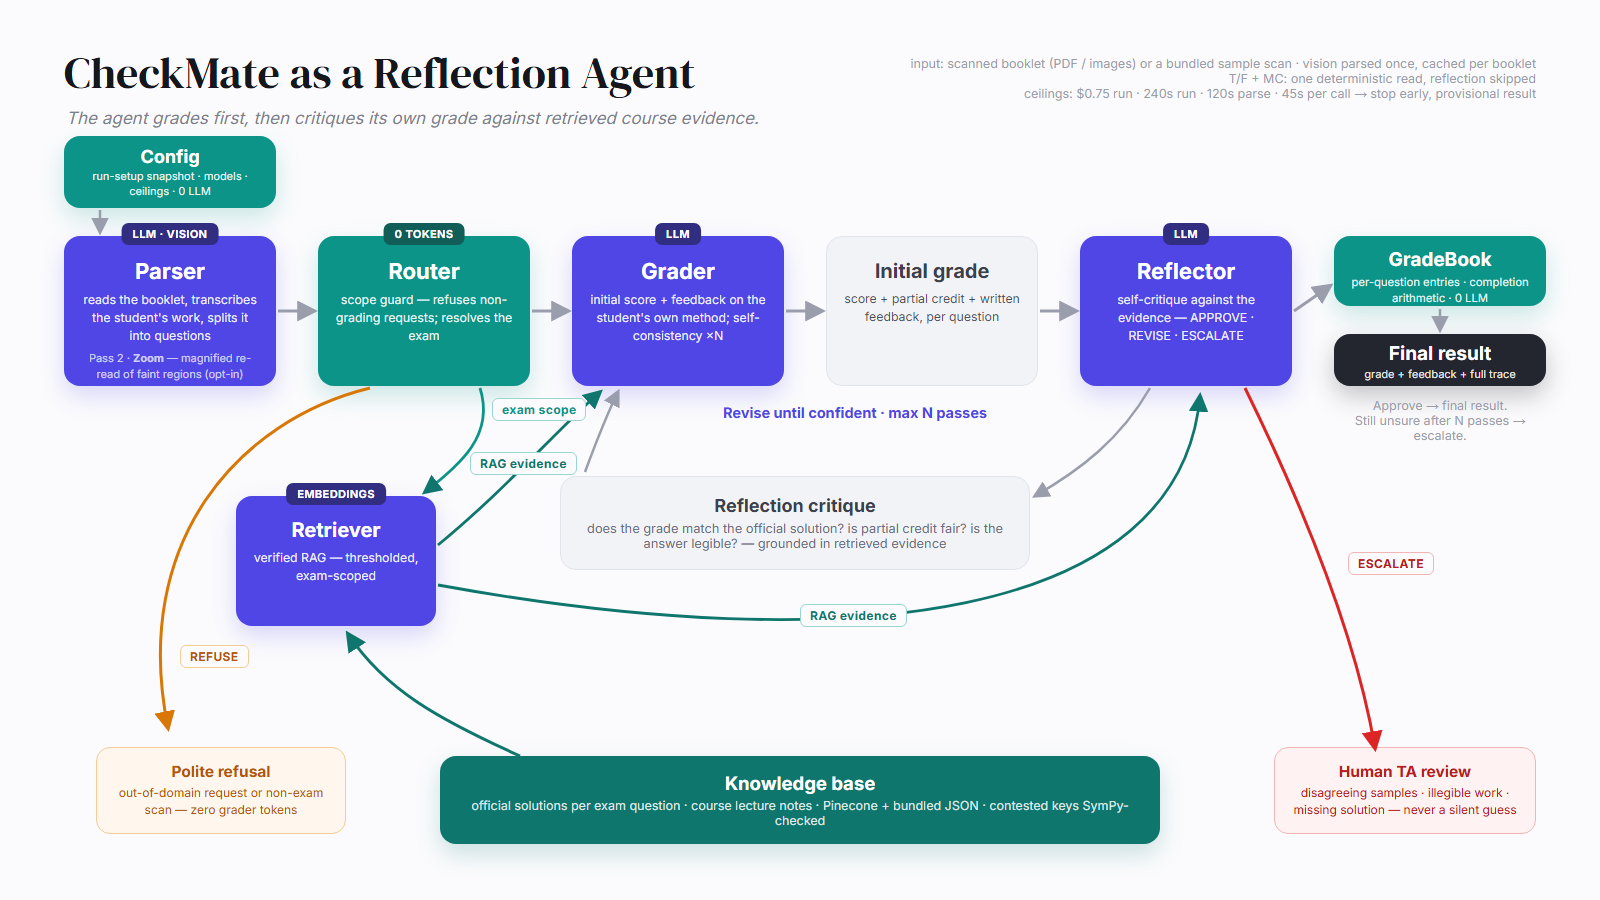
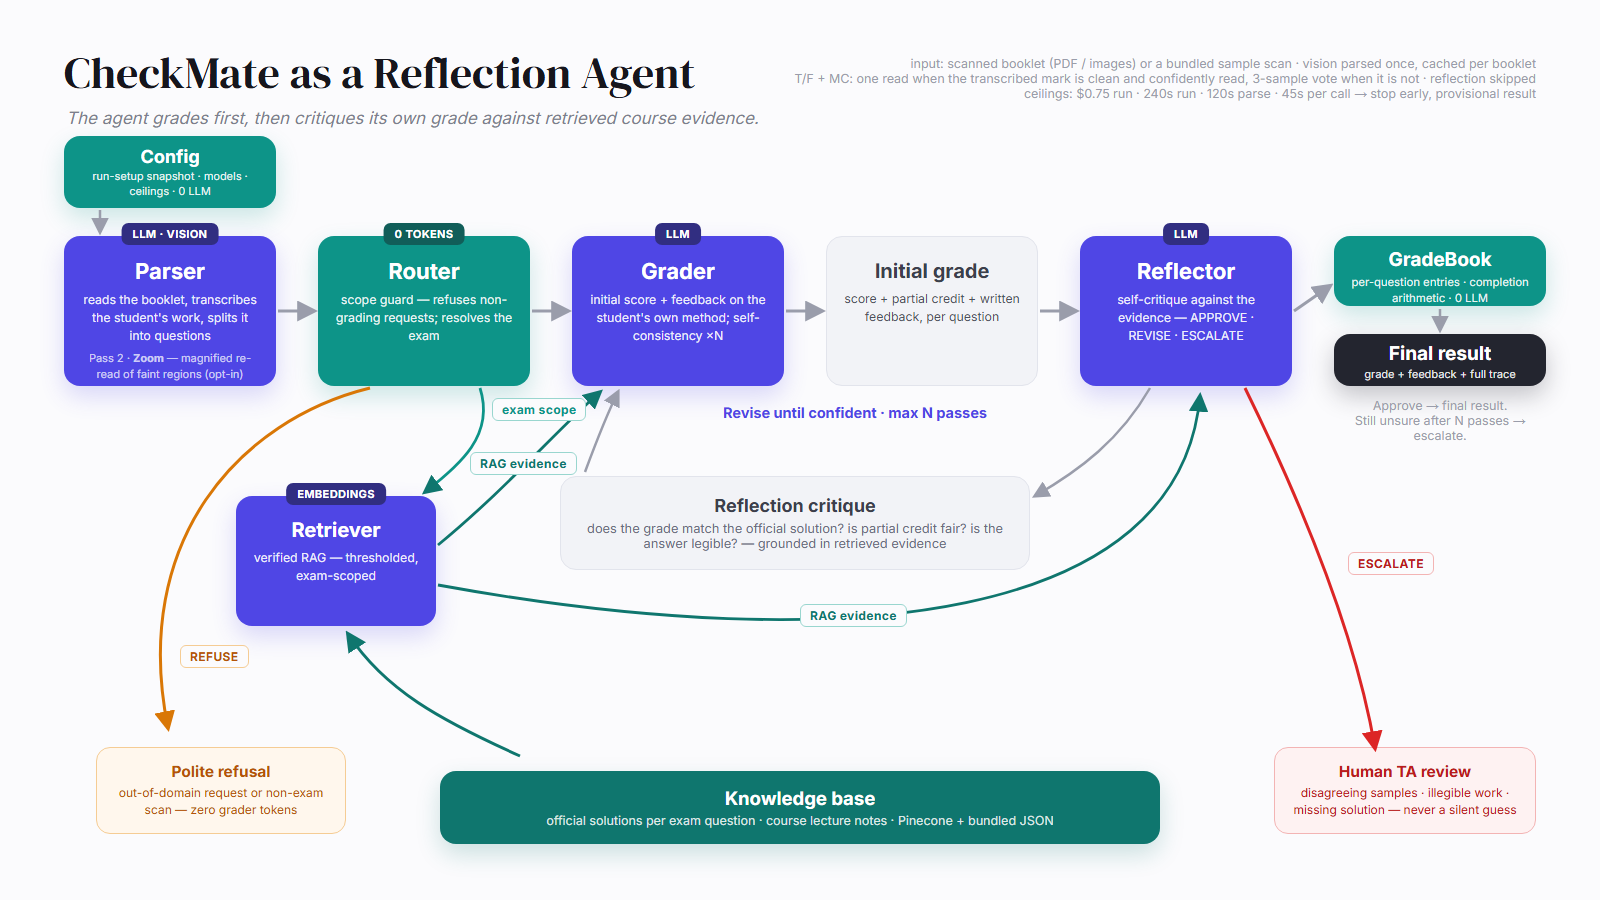
Drop the unbacked SymPy claim; fix the diagram's T/F+MC gating line
The branch audit found agent_info asserting that "contested answer keys are
checked symbolically offline with SymPy". Nothing backs it: sympy is not in
requirements.txt, there is no import and no sweep script anywhere in the repo,
no `verified` field exists in KB entries or index metadata, and 1 of 59 keys
carries any verification trace at all -- free text inside the notes of
2024w moed A/Q2b.

The README overclaimed further than agent_info did, describing a
`verified` vs `authored` tagging scheme that was never built as data.

Removed rather than implemented. A real sweep is not a sweep here: all 59
entries carry a final_answer, but 49 are proof-style prose and the other 10 are
multiple-choice letters, so "verifying" them means ~49 hand-authored symbolic
assertions. That is presumably why only Q2b exists. What IS true is stated
instead: one key was once disputed, and the resolution lives in that entry's
grading note, which the Retriever already passes through to the Grader.

Four sites: api/index.py (agent_info), two README passages plus its tech line,
and scripts/draw_architecture.py (the legacy matplotlib generator, so the claim
cannot resurface from there).

Separately, the diagram claimed "T/F + MC: one deterministic read". That is only
half the gating -- _samples_for takes one call when the transcribed mark is
clean AND parser confidence is >= 0.75, and the full 3-sample vote otherwise,
which is why MC-2 and MC-4 drew three samples in the audited live run. Reworded
[…]

Changed region(s): [[0.25, 0.84, 0.75, 0.9333], [0.5, 0.0622, 0.875, 0.0933]]

diff --git a/scripts/architecture.html b/scripts/architecture.html
@@ -57,7 +57,7 @@
   <div class="title">CheckMate as a Reflection Agent</div>
   <div class="subtitle">The agent grades first, then critiques its own grade against retrieved course evidence.</div>
   <div class="aux">input: scanned booklet (PDF / images) or a bundled sample scan · vision parsed once, cached per booklet<br>
-       T/F + MC: one deterministic read, reflection skipped<br>
+       T/F + MC: one read when the transcribed mark is clean and confidently read, 3-sample vote when it is not · reflection skipped<br>
        ceilings: $0.75 run · 240s run · 120s parse · 45s per call → stop early, provisional result</div>
 
   <!-- main row -->
@@ -80,7 +80,7 @@
 
   <div class="kb">
     <h3>Knowledge base</h3>
-    <p>official solutions per exam question · course lecture notes · Pinecone + bundled JSON · contested keys SymPy-checked</p>
+    <p>official solutions per exam question · course lecture notes · Pinecone + bundled JSON</p>
   </div>
 
   <div class="refuse"><h3>Polite refusal</h3><p>out-of-domain request or non-exam scan — zero grader tokens</p></div>

diff --git a/api/index.py b/api/index.py
@@ -130,9 +130,9 @@ async def agent_info():
             "grounds on nothing and escalates rather than on the wrong solution), borderline "
             "matches must be corroborated by the printed question text, retrieval is "
             "scoped to the exam identified from the scan, the Grader must reject a retrieved "
-            "solution that does not match the question in front of it, and contested answer keys "
-            "are checked symbolically offline with SymPy (e.g. the Q2b root-count key, settled "
-            "by the check during a ground-truth dispute). Every run is bounded in TIME as well "
+            "solution that does not match the question in front of it, and where an answer key was "
+            "once disputed the resolution is recorded in that entry's grading note, which the "
+            "Retriever passes through to the Grader (2024W-A Q2b). Every run is bounded in TIME as well "
             "as cost: a 45s per-call HTTP timeout, a 120s parse deadline and a 240s run guard "
             "keep the request inside Vercel's 300s limit, and when a ceiling is reached the "
             "agent returns a provisional result for the questions it did grade — clearly marked "

diff --git a/scripts/draw_architecture.py b/scripts/draw_architecture.py
@@ -124,7 +124,7 @@ def main() -> None:
 
     # knowledge base, centered under Retriever
     box(ax, 0.375, BY, 0.235, BH, "Knowledge base",
-        "Pinecone index + bundled JSON\nofficial solutions per exam question\ncourse lecture notes (semantic top-k)\nverified by an offline SymPy sweep",
+        "Pinecone index + bundled JSON\nofficial solutions per exam question\ncourse lecture notes (semantic top-k)",
         KB, fs=11, sfs=8.2)
     arrow(ax, (0.4925, BY + BH + 0.012), (0.4925, Y - 0.004), color=KB, lw=2.2)
     ax.text(0.503, 0.53, "grounding evidence", fontsize=8.2, color=KB, ha="left", va="center")

diff --git a/README.md b/README.md
@@ -56,7 +56,7 @@ diagram, and in `/api/agent_info` — the course grades that consistency.
 | **Parser** | `checkmate/parser.py` | Vision OCR: transcribes each page faithfully, splits into questions, reads exam identity (course/date/מועד) off the cover, and re-reads faint regions (zoom, opt-in). A deterministic post-pass splits a merged True/False page into per-item `TF-n` fragments (zero LLM). Bounded by its own wall-clock deadline (`parse_deadline_seconds`): past it no NEW vision call is started, pages in flight finish, and skipped pages are reported in the trace rather than silently dropped. Does **not** grade. |
 | **Zoom** | `checkmate/zoom.py` | Parser **Pass 2**, opt-in (`CHECKMATE_ZOOM=1`), logged under its own module name when it runs: re-reads a low-confidence fragment from a magnified crop of its own region. Off by default, so it does not appear in a default trace. |
 | **Router** | `checkmate/orchestrator.py` + `checkmate/guard.py` + `kb/exams.py` | Two autonomous decisions. **Scope guard**: refuses out-of-domain requests (and non-exam scans that match nothing in the KB) politely, BEFORE spending grader tokens — the refusal is logged as a Router step. **Exam scoping**: manual override → auto-detected from the scan → unscoped fallback. |
-| **Retriever** | `checkmate/retriever.py` | RAG **with a verification layer** — retrieval is checked, never trusted blindly: matches below a similarity floor (`MIN_SCORE`) are discarded so the agent grounds on *nothing* (and escalates) rather than on the wrong solution; retrieval is scoped to the exam identified from the scan; a strong content-overlap match outranks an unreliable id label; the Grader is instructed to reject a retrieved solution that doesn't match the question in front of it; and contested answer keys are checked symbolically offline with SymPy (the Q2b root-count key, settled by the check during a ground-truth dispute). Pinecone semantic search + exact-id and content-overlap fallbacks over bundled JSON, plus top-k course-notes chunks. |
+| **Retriever** | `checkmate/retriever.py` | RAG **with a verification layer** — retrieval is checked, never trusted blindly: matches below a similarity floor (`MIN_SCORE`) are discarded so the agent grounds on *nothing* (and escalates) rather than on the wrong solution; retrieval is scoped to the exam identified from the scan; a strong content-overlap match outranks an unreliable id label; the Grader is instructed to reject a retrieved solution that doesn't match the question in front of it; and where an answer key was once disputed the resolution is recorded in that entry's grading note, which the Retriever passes through to the Grader (2024W-A Q2b). Pinecone semantic search + exact-id and content-overlap fallbacks over bundled JSON, plus top-k course-notes chunks. |
 | **Grader** | `checkmate/grader.py` | Scores the student's actual method with partial credit + feedback. **Self-consistency**: grades N times, takes the median, escalates on disagreement. At the run deadline the extra samples are dropped (the first always runs) and the grade is flagged `samples_cut_by_deadline` — never reported as a full N-sample vote it did not take. |
 | **Reflector** | `checkmate/reflector.py` | Critiques the proposed grade **against the retrieved evidence** (official solution + transcript in context); APPROVE / REVISE / ESCALATE. On REVISE the critique goes **back to the Grader**, which regrades conditioned on it (canonical Reflection loop à la Self-Refine/Reflexion, ≤N passes) — and may keep its grade if the critique is unjustified. An escalation is never cleared by a revision. |
 | *(reflection loop)* | `checkmate/orchestrator.py` | Control flow, **not a logged module**: groups fragments by question, runs the Grader⇄Reflector loop, applies a cross-exam consistency guard, and enforces the budget/wall-clock ceilings. Every LLM call inside it is logged under its own module above. |
@@ -230,13 +230,13 @@ Two sources embedded into **Pinecone** (1536-dim, `text-embedding-3-small`):
 
 Because near-identical questions recur across exams ("state the IVT"), retrieval is **scoped
 to the identified exam** — the disambiguating signal is the exam identity read off the scan,
-not the student's answer. Keys are tagged `verified` vs `authored`: a key is marked
-`verified` only after an offline SymPy check of its final answer — currently the once-
-contested key, 2024W-A Q2b, verified to be exactly **0** real roots (`f ≥ 1 > 0`) when our
-first reading of the red pen was in doubt. (A later scan re-audit showed the human's 7/10
-there was a legitimate deduction for a derivative sign slip — the key and the human agree;
-the SymPy check is what settled the dispute.) All other keys are `authored` from the
-official solutions; proof-style questions have no machine-decidable key to verify.
+not the student's answer. Keys are authored from the official solutions. There is **no
+automated key-verification pass**: most questions here are proof-style and have no
+machine-decidable answer to check, so the keys are trusted as authored. One key was once disputed — 2024W-A Q2b, whose answer
+is exactly **0** real roots (`f ≥ 1 > 0`) — and the resolution is recorded in that entry's
+grading note, which the Retriever passes through to the Grader. (A later scan re-audit
+showed the human's 7/10 there was a legitimate deduction for a derivative sign slip — the
+key and the human agree.)
 
 ## 7. Evaluation + budget model
 
@@ -262,16 +262,16 @@ python -m uvicorn api.index:app --reload --port 8000   # http://localhost:8000
 
 Without keys the app still serves the full API contract via a deterministic mock, so every
 endpoint works with no secrets. Tech: **Python · FastAPI + Jinja on Vercel** · OpenAI-compatible
-LLMod.ai gateway · Pinecone · PyMuPDF (PDF render + ink detection). SymPy is an **offline-only**
-KB-verification tool, never in the request path.
+LLMod.ai gateway · Pinecone · PyMuPDF (PDF render + ink detection).
 
 ## 9. Known limitations
 
 - **Grader reasoning ceiling** — the mini makes systematic math errors even with correct
   grounding; self-consistency catches *stochastic* disagreement but not *consistent* wrongness.
   A stronger grader model is the real lever, and it is blocked by the restricted key (§5).
-- **Few-shot Example 3** in `GRADER_SYSTEM` teaches the SymPy-verified key (0 solutions)
-  plus the rubric lesson from the graded booklet: a correct final count with a sign slip in
+- **Few-shot Example 3** in `GRADER_SYSTEM` teaches the once-disputed key (0 solutions,
+  proved inline in the prompt) plus the rubric lesson from the graded booklet: a correct
+  final count with a sign slip in
   the derivative line earns 7/10, not full marks — correct conclusions do not erase
   incorrect intermediate work.
 - **Evaluation corpus is tiny** — two graded booklets of one paper (one ground-truth entry
